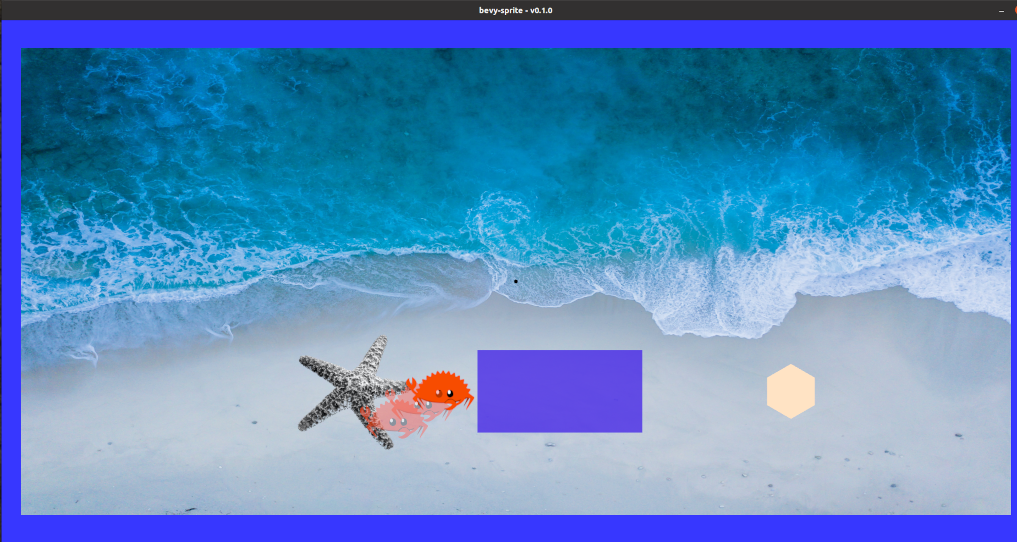
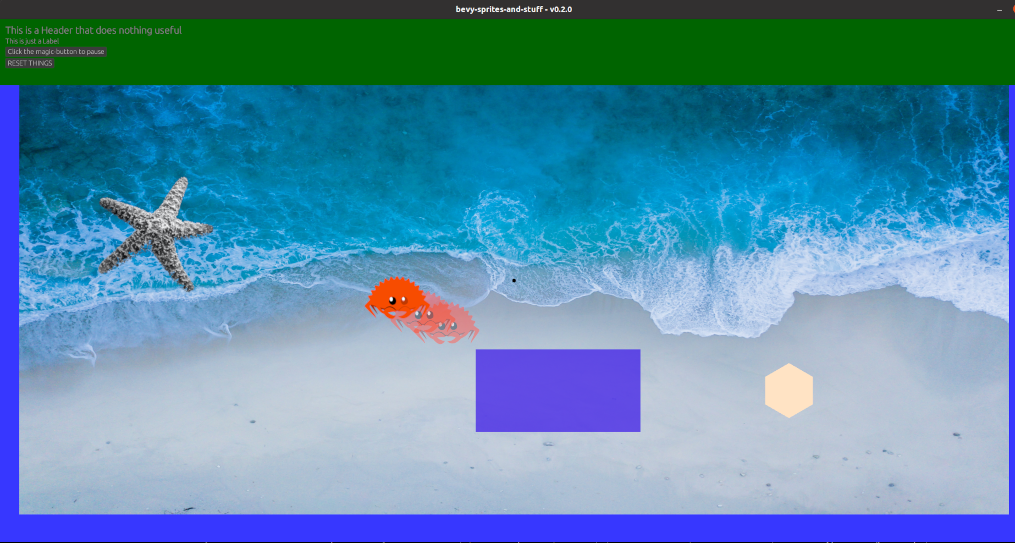
added Reset button - it's not a Great Reset, but it's a pretty good Reset

diff --git a/src/my_egui.rs b/src/my_egui.rs
@@ -1,24 +1,16 @@
 /*
 
-So it turns out,
-    pub fn do_ui_setup(mut egui_context: ResMut<EguiContext>,
-                       mut random_data: ResMut<GuiData>,) {
-        let age: i32 = 0;
-
-doesn't work in Immediate-Mode. Wups. IM means every frame,
-the function refreshes the screen, and constructs the UI anew.
-Any data has to be stored somewhere else, like a Resource.
 */
 
 use bevy::prelude::*;
 #[allow(unused_imports)]
 use bevy_egui::{egui, EguiContext, EguiPlugin};
 use egui::Color32;
-use crate::{GuiData, SpritesMovable};
+use crate::{GuiData, GameData};
 
 pub fn do_ui_setup(mut egui_context: ResMut<EguiContext>,
                    mut random_data: ResMut<GuiData>,
-                   mut move_active: ResMut<SpritesMovable>,
+                   mut move_active: ResMut<GameData>,
 ) {
     let my_frame = egui::containers::Frame {
         outer_margin: Default::default(),
@@ -31,28 +23,18 @@ pub fn do_ui_setup(mut egui_context: ResMut<EguiContext>,
         stroke: Default::default(),
     };
 
-    egui::TopBottomPanel::top("top panel?").default_height(300.0)
+    egui::TopBottomPanel::top("top panel?").min_height(100.0)
         .frame(my_frame)
         // .resizable(true)  // Only works if there's a resizable element inside?
         .show(egui_context.ctx_mut(), |ui| {
             ui.heading("This is a Header that does nothing useful");
-            ui.label("This is a Label");
-            ui.horizontal(|ui| {
-                ui.label("Your name: ");
-                ui.text_edit_singleline(&mut random_data.some_name);
-            });
-            if ui.button("Click the magic-button").clicked() {
+            ui.label("This is just a Label");
+            if ui.button("Click the magic-button to pause").clicked() {
                 random_data.my_value += 1;
-                move_active.is_active = !move_active.is_active;
+                move_active.is_paused = !move_active.is_paused;
             }
-            if ui.button("RESET").clicked() {
-                // move_active.is_active = !move_active.is_active;
+            if ui.button("RESET THINGS").clicked() {
+                move_active.game_status = move_active.game_status.cycle();
             }
     });
 }
-
-pub fn do_ui_read(_random_data: ResMut<GuiData>,
-) {
-    // println!("random data: {:?}", random_data);
-}
-

diff --git a/src/main.rs b/src/main.rs
@@ -40,18 +40,17 @@ fn main() {
         .add_plugins(DefaultPlugins)
         .add_plugin(EguiPlugin)
 
-        .insert_resource(SpritesMovable { is_active: true })
-        .insert_resource(BackgroundMap { cur_map: OneBackground::Map1 })
-        // TODO: move these coords out - note the Hovercraft also use them
+        .insert_resource(GameData::default())
         .insert_resource(DragPoint::default())
+        .insert_resource(BackgroundMap { cur_map: OneBackground::Map1 })
 
         .add_startup_system(setup_sprites)
         .add_startup_system(setup_movers)
 
         .add_system(bevy::window::close_on_esc)
         .add_system(do_ui_setup)
-        .add_system(do_ui_read)
 
+        .add_system(reset_movers)
         .add_system(do_sprite_auto_move)
         .add_system(do_sprite_move_check)
         .add_system(do_movement_input)
@@ -65,7 +64,6 @@ fn setup_sprites(mut commands: Commands,
                  asset_server: Res<AssetServer>,
                  mut meshes: ResMut<Assets<Mesh>>,
                  mut materials: ResMut<Assets<ColorMaterial>>,
-                 mut texture_atlases: ResMut<Assets<TextureAtlas>>,
 ) {
     commands  // Camera
         .spawn_bundle(Camera2dBundle::default())
@@ -137,4 +135,28 @@ fn setup_movers(mut commands: Commands,
         .insert(HoverCraft::RightPoint)
         .insert(IsMousing { is_dragging: false})
         .insert(OneMover);
+}
+
+fn reset_movers(mut commands: Commands,
+                asset_server: Res<AssetServer>,
+                meshes: ResMut<Assets<Mesh>>,
+                materials: ResMut<Assets<ColorMaterial>>,
+                texture_atlases: ResMut<Assets<TextureAtlas>>,
+                mut move_active: ResMut<GameData>,
+                mut movers_query: Query<Entity, With<OneMover>>,
+) {
+    if move_active.game_status != GameState::Reset { return; }
+
+    // Say goodby to all the Mover Sprites
+    for one_sprite_id in movers_query.iter_mut() {
+        commands.entity(one_sprite_id).despawn();
+    }
+
+    // Reset all the variables in DragPoint - by replacing it?
+    commands.remove_resource::<DragPoint>();
+    commands.insert_resource(DragPoint::default());
+
+    setup_movers(commands, asset_server, meshes, materials, texture_atlases);
+
+    move_active.game_status = GameState::Running;
 }

diff --git a/src/movers.rs b/src/movers.rs
@@ -1,6 +1,6 @@
 use bevy::prelude::*;
 use bevy::ecs::{archetype::Archetypes, component::Components};
-use crate::{CrabDirection, DragPoint, KeyMover, SpritesMovable};
+use crate::{CrabDirection, DragPoint, KeyMover, GameData};
 
 /*
 The first pass, this function moved the Sprite (crab) between points A and B. I decided
@@ -15,11 +15,11 @@ moving between A/B (by adding X pixels), was a constant speed the whole way. I m
 to rethink the lerp. OTOH, it does sort of look crab-like...
 */
 pub fn do_sprite_auto_move(drag_points: Res<DragPoint>,
-                           move_active: Res<SpritesMovable>,
+                           move_active: Res<GameData>,
                            mut sprite_query: Query<(&mut Transform,
                                                 &mut CrabDirection,)>,
 ) {
-    if !move_active.is_active { return; }  // Spacebar pauses movement
+    if move_active.is_paused { return; }  // Spacebar pauses movement
 
     // TODO: there's now only one auto-moving sprite, the Crab - I could change these loops to single.
     for (mut sprite_pos, moving_dir) in &mut sprite_query {
@@ -71,11 +71,11 @@ pub fn do_sprite_move_check(drag_points: Res<DragPoint>,
 }
 
 pub fn do_movement_input(keyboard_input: Res<Input<KeyCode>>,
-                         move_active: Res<SpritesMovable>,
+                         move_active: Res<GameData>,
                          mut tunnel_pos: Query<(&mut Transform,
                                                 &mut KeyMover)>,
 ) {
-    if !move_active.is_active { return; }
+    if move_active.is_paused { return; }
 
     // TODO: for some reason, LControl not being picked up - is Linux eating it?
     if keyboard_input.any_pressed([KeyCode::LControl, KeyCode::RControl, KeyCode::LAlt, KeyCode::RAlt]) {

diff --git a/src/data.rs b/src/data.rs
@@ -23,6 +23,7 @@ pub struct GuiData {
 }
 
 // Background stuff
+
 // Example of creating an Enum that maps to Strings (but *not* str)
 #[derive(Clone, Copy, Debug, PartialEq)]
 pub enum OneBackground {
@@ -74,11 +75,6 @@ pub struct KeyMover {
     pub is_movable: bool
 }
 
-// Resource - basically pauses all sprite-movement
-pub struct SpritesMovable {
-    pub is_active: bool
-}
-
 // Resource
 #[derive(Debug)]
 pub struct DragPoint {
@@ -100,10 +96,45 @@ pub enum HoverCraft {
     LeftPoint,
     RightPoint,
 }
+
 #[derive(Component)]
 pub struct OneMover;
 
 #[derive(Component)]
 pub struct IsMousing {
     pub is_dragging: bool,
+}
+
+// General Game status-data
+
+// Resource
+pub struct GameData {
+    pub game_status: GameState,
+    pub is_paused: bool,
+}
+
+impl Default for GameData {
+    fn default() -> Self {
+        GameData {
+            game_status: GameState::Running,
+            is_paused: false,
+        }
+    }
+}
+
+// Cycled by a GUI Reset button
+#[derive(Clone, Copy, Debug, PartialEq)]
+pub enum GameState {
+    Running,
+    Reset,
+}
+
+// Adding a cycler-function to simplify changing states
+impl GameState {
+    pub fn cycle(&self) -> Self {
+        match *self {
+            GameState::Running => GameState::Reset,
+            GameState::Reset => GameState::Running,
+        }
+    }
 }

diff --git a/src/lessons.md b/src/lessons.md
@@ -45,3 +45,15 @@ it was up/down/left/right, from a time when it could move in four direction. But
 ### Cool Enum Tricks
 
 https://stackoverflow.com/questions/25867875/how-do-i-toggle-through-enum-variants
+
+### Gui stuff
+
+So it turns out
+
+    pub fn do_ui_setup(mut egui_context: ResMut<EguiContext>,
+        mut random_data: ResMut<GuiData>,) {
+        let age: i32 = 0; }
+
+doesn't work in Immediate-Mode. Wups. IM means every frame,
+the function refreshes the screen, and constructs the UI anew.
+Any data has to be stored somewhere else, like a Resource.

diff --git a/README.md b/README.md
@@ -17,6 +17,7 @@ basic techniques and concepts. Such as...
    - puts assorted Widgets into the TopPanel, including
      - a Button, that actually does something in-game
      - a Slider, that... slides...
+     - a Reset button, with associated game-logic
  - assorted ECS concepts
  - assorted Query usage
  - assorted Rust concepts
